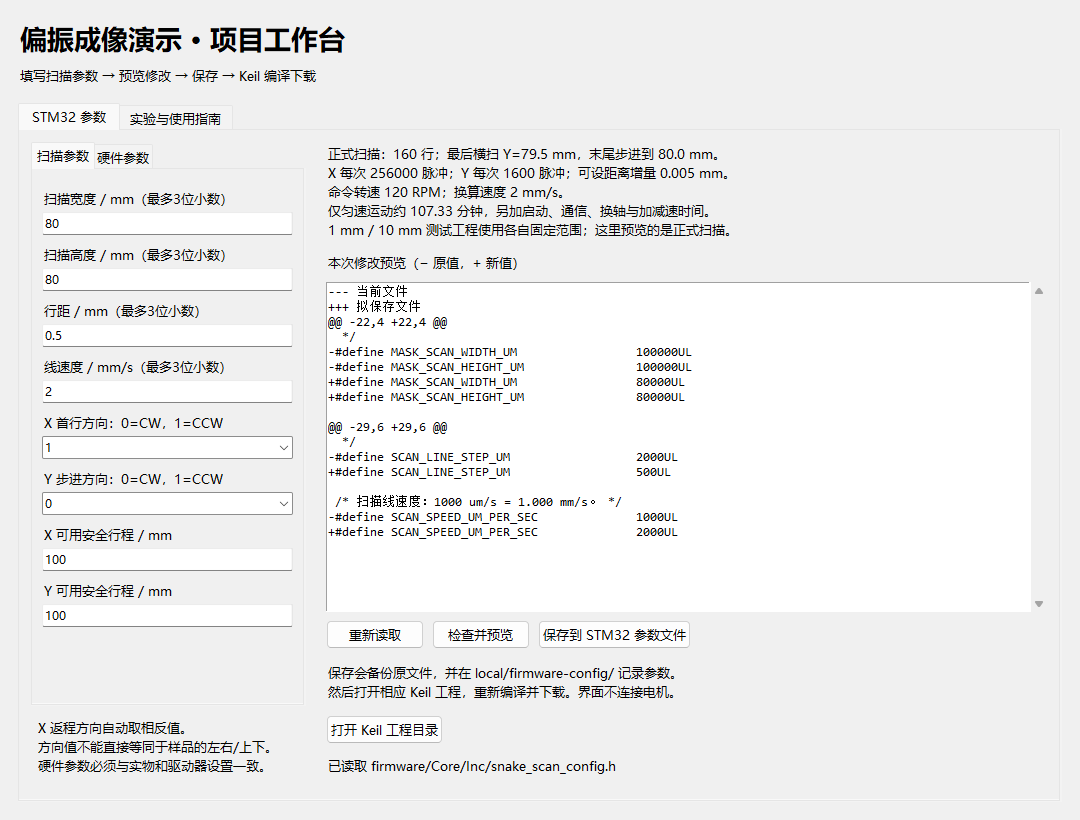
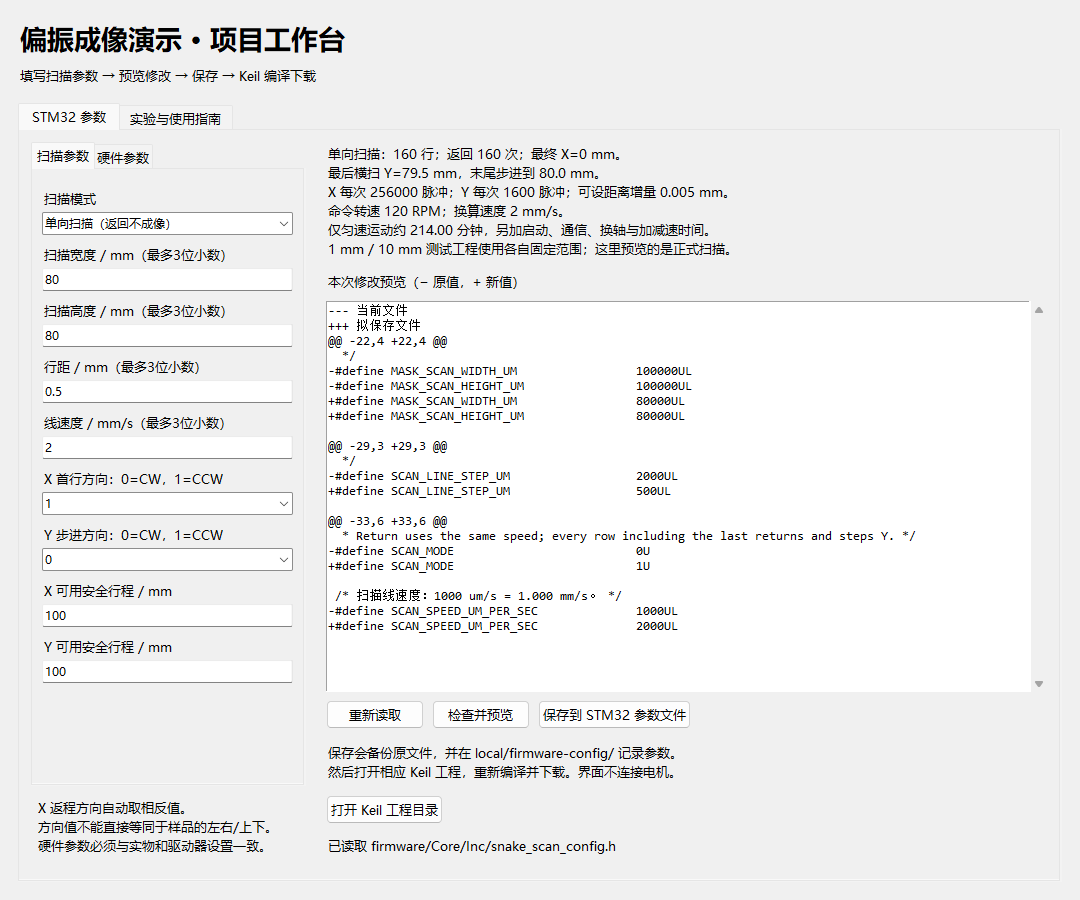
Add selectable unidirectional scanning with return passes

diff --git a/tools/control_panel.py b/tools/control_panel.py
@@ -11,6 +11,7 @@ from config_model import FIELDS, MM_DISPLAY_KEYS, parse_form, read_values, rende
 
 ROOT = Path(__file__).resolve().parents[1]
 HEADER = ROOT / 'firmware/Core/Inc/snake_scan_config.h'
+MODE_LABELS = ('双向蛇形（往返均成像）', '单向扫描（返回不成像）')
 
 
 def open_path(relative):
@@ -56,7 +57,9 @@ class ControlPanel(ttk.Frame):
                 ttk.Label(frame, text=field.label).grid(row=row*2, column=0, sticky='w', pady=(8, 2))
                 variable = tk.StringVar()
                 self.variables[field.key] = variable
-                if field.maximum == 1:
+                if field.key == 'SCAN_MODE':
+                    entry = ttk.Combobox(frame, textvariable=variable, values=MODE_LABELS, state='readonly', width=32)
+                elif field.maximum == 1:
                     entry = ttk.Combobox(frame, textvariable=variable, values=['0', '1'], state='readonly', width=32)
                 else:
                     entry = ttk.Entry(frame, textvariable=variable, width=35)
@@ -92,6 +95,10 @@ class ControlPanel(ttk.Frame):
 
     @staticmethod
     def form_value(key, value):
+        if key == 'SCAN_MODE':
+            if value not in (0, 1):
+                raise ValueError('SCAN_MODE 必须为0或1。')
+            return MODE_LABELS[value]
         return str(Decimal(value) / 1000) if key in MM_DISPLAY_KEYS else str(value)
 
     def reload(self):
@@ -107,7 +114,9 @@ class ControlPanel(ttk.Frame):
 
     def check(self):
         try:
-            values = parse_form({key: variable.get() for key, variable in self.variables.items()})
+            form = {key: variable.get() for key, variable in self.variables.items()}
+            form['SCAN_MODE'] = MODE_LABELS.index(form['SCAN_MODE'])
+            values = parse_form(form)
             new = render(self.original, values)
             info = validate(values)
             diff = ''.join(difflib.unified_diff(self.original.decode('utf-8-sig').splitlines(True),
@@ -116,7 +125,8 @@ class ControlPanel(ttk.Frame):
             self.preview.delete('1.0', 'end')
             self.preview.insert('1.0', diff or '参数与当前文件相同。')
             self.preview.config(state='disabled')
-            self.summary.set(f"正式扫描：{info['rows']} 行；最后横扫 Y={info['last_line_y_mm']} mm，末尾步进到 {info['final_y_mm']} mm。\n"
+            self.summary.set(f"{info['mode_name']}：{info['rows']} 行；返回 {info['return_passes']} 次；最终 X={info['final_x_mm']:g} mm。\n"
+                             f"最后横扫 Y={info['last_line_y_mm']} mm，末尾步进到 {info['final_y_mm']} mm。\n"
                              f"X 每次 {info['x_pulses']} 脉冲；Y 每次 {info['y_pulses']} 脉冲；可设距离增量 {info['minimum_step_mm']:g} mm。\n"
                              f"命令转速 {info['rpm']} RPM；换算速度 {info['actual_mm_s']:.4g} mm/s。\n"
                              f"仅匀速运动约 {info['ideal_motion_seconds']/60:.2f} 分钟，另加启动、通信、换轴与加减速时间。\n"
@@ -160,8 +170,8 @@ class ControlPanel(ttk.Frame):
 def main():
     root = tk.Tk()
     root.title('偏振成像演示 · 参数与实验')
-    root.geometry('1080x820')
-    root.minsize(980, 740)
+    root.geometry('1080x900')
+    root.minsize(980, 880)
     style = ttk.Style(root)
     if 'vista' in style.theme_names():
         style.theme_use('vista')

diff --git a/scripts/scan_path_stub.c b/scripts/scan_path_stub.c
@@ -1,0 +1,51 @@
+/* Test the production scan loop with simulated moves, including failure stops. */
+#include <stdint.h>
+#include <stdbool.h>
+#include <assert.h>
+#include <setjmp.h>
+#include <stdio.h>
+/* CONFIG */
+enum { SCAN_STATE_MOVING_X, SCAN_STATE_MOVING_Y, SCAN_STATE_RETURNING_X, SCAN_STATE_FINISHED };
+static unsigned scan_state, scan_line, scan_x_offset_um, scan_y_offset_um;
+static unsigned count, fail_at, error_code, led;
+static jmp_buf failure;
+static void HAL_Delay(uint32_t ms) { (void)ms; }
+static void Scan_LedOn(void) { led=1; }
+static void Scan_Fail(uint8_t code) { error_code=code; longjmp(failure,1); }
+static bool Scan_MoveRelative(uint8_t axis,uint8_t direction,uint32_t distance,uint32_t timeout) {
+    unsigned row=count/(SCAN_MODE ? 3 : 2);
+    unsigned leg=count%(SCAN_MODE ? 3 : 2);
+    (void)timeout;
+    assert(scan_line==row+1);
+    if (leg==0) {
+        assert(axis==X_AXIS_ADDR && distance==ACTIVE_SCAN_WIDTH_UM);
+        assert(direction==((SCAN_MODE || row%2==0)?X_FIRST_PASS_DIRECTION:X_ALTERNATE_PASS_DIRECTION));
+        assert(scan_state==SCAN_STATE_MOVING_X);
+    } else if (SCAN_MODE && leg==1) {
+        assert(axis==X_AXIS_ADDR && direction==X_ALTERNATE_PASS_DIRECTION);
+        assert(distance==ACTIVE_SCAN_WIDTH_UM && scan_state==SCAN_STATE_RETURNING_X);
+    } else {
+        assert(axis==Y_AXIS_ADDR && direction==Y_STEP_DIRECTION);
+        assert(distance==ACTIVE_LINE_STEP_UM && scan_state==SCAN_STATE_MOVING_Y);
+    }
+    ++count;
+    return count!=fail_at;
+}
+/* LOOP */
+int main(void) {
+    SnakeScan();
+    assert(count==ACTIVE_HORIZONTAL_PASS_COUNT*(SCAN_MODE?3:2));
+    assert(scan_y_offset_um==ACTIVE_SCAN_HEIGHT_UM);
+    assert(scan_x_offset_um==((SCAN_MODE || ACTIVE_HORIZONTAL_PASS_COUNT%2==0)?0:ACTIVE_SCAN_WIDTH_UM));
+    assert(scan_state==SCAN_STATE_FINISHED && led);
+    unsigned total=count;
+    for (unsigned stop=1;stop<=total;++stop) {
+        count=led=scan_line=scan_x_offset_um=scan_y_offset_um=error_code=0;
+        fail_at=stop;
+        if (setjmp(failure)==0) { SnakeScan(); assert(0); }
+        assert(count==stop && !led);
+        unsigned leg=(stop-1)%(SCAN_MODE?3:2);
+        assert(error_code==(leg==0?3:(SCAN_MODE && leg==1?8:4)));
+    }
+    puts("PASS: production scan loop directions, distances, endpoints and stop on every failed leg.");
+}

diff --git a/firmware/Core/Src/main.c b/firmware/Core/Src/main.c
@@ -64,7 +64,8 @@ typedef enum
   SCAN_STATE_MOVING_X,
   SCAN_STATE_MOVING_Y,
   SCAN_STATE_FINISHED,
-  SCAN_STATE_ERROR
+  SCAN_STATE_ERROR,
+  SCAN_STATE_RETURNING_X
 } ScanState_t;
 
 /* Runtime state variables for scan progress and fault diagnosis. */
@@ -368,19 +369,32 @@ static void SnakeScan(void)
   for (pass = 0U; pass < ACTIVE_HORIZONTAL_PASS_COUNT; ++pass)
   {
     scan_line = pass + 1U;
-    x_direction = ((pass & 1U) == 0U) ? X_FIRST_PASS_DIRECTION
+    x_direction = ((SCAN_MODE == 1U) || ((pass & 1U) == 0U)) ? X_FIRST_PASS_DIRECTION
                                       : X_ALTERNATE_PASS_DIRECTION;
 
-    /* Alternate between the configured first-pass and return directions. */
+    /* Only this X leg is an imaging pass in unidirectional mode. */
     scan_state = SCAN_STATE_MOVING_X;
     if (!Scan_MoveRelative(X_AXIS_ADDR, x_direction,
                            ACTIVE_SCAN_WIDTH_UM, X_MOVE_TIMEOUT_MS))
     {
       Scan_Fail(3U);
     }
-    scan_x_offset_um = ((pass & 1U) == 0U) ?
+    scan_x_offset_um = ((SCAN_MODE == 1U) || ((pass & 1U) == 0U)) ?
                        ACTIVE_SCAN_WIDTH_UM : 0U;
     HAL_Delay(AXIS_SWITCH_DELAY_MS);
+
+    if (SCAN_MODE == 1U)
+    {
+      /* Nominal return, not mechanical homing. Do not image this leg. */
+      scan_state = SCAN_STATE_RETURNING_X;
+      if (!Scan_MoveRelative(X_AXIS_ADDR, X_ALTERNATE_PASS_DIRECTION,
+                             ACTIVE_SCAN_WIDTH_UM, X_MOVE_TIMEOUT_MS))
+      {
+        Scan_Fail(8U);
+      }
+      scan_x_offset_um = 0U;
+      HAL_Delay(AXIS_SWITCH_DELAY_MS);
+    }
 
     /* Every completed horizontal line is followed by one upward line step. */
     scan_state = SCAN_STATE_MOVING_Y;

diff --git a/tools/config_model.py b/tools/config_model.py
@@ -21,6 +21,7 @@ class Field:
 
 
 FIELDS = [
+    Field('SCAN_MODE', '扫描模式', 0, 1),
     Field('MASK_SCAN_WIDTH_UM', '扫描宽度 / mm（最多3位小数）', 1, 4294000),
     Field('MASK_SCAN_HEIGHT_UM', '扫描高度 / mm（最多3位小数）', 1, 4294000),
     Field('SCAN_LINE_STEP_UM', '行距 / mm（最多3位小数）', 1, 4294000),
@@ -104,9 +105,13 @@ def validate(v):
     actual_speed_um = rpm * lead / 60
     if (max(w, 10000) * 60000 + rpm*lead-1) // (rpm*lead) + 20000 > 0xffffffff or (max(step, 2000) * 60000 + rpm*lead-1) // (rpm*lead) + 4000 > 0xffffffff:
         raise ValueError('运动超时超出32位计时器范围。')
-    return dict(minimum_step_mm=grid_um/1000, x_pulses=w*ppr//lead, y_pulses=step*ppr//lead, rows=h // step, rpm=rpm, actual_mm_s=rpm * lead / 60000,
+    mode = v['SCAN_MODE']
+    return dict(scan_mode=mode, mode_name='单向扫描' if mode else '双向蛇形',
+                return_passes=h//step if mode else 0,
+                final_x_mm=0 if mode or (h//step)%2==0 else w/1000,
+                minimum_step_mm=grid_um/1000, x_pulses=w*ppr//lead, y_pulses=step*ppr//lead, rows=h // step, rpm=rpm, actual_mm_s=rpm * lead / 60000,
                 last_line_y_mm=(h-step)/1000, final_y_mm=h/1000,
-                ideal_motion_seconds=(h // step * w + h) / actual_speed_um)
+                ideal_motion_seconds=(h // step * w * (2 if mode else 1) + h) / actual_speed_um)
 
 
 def render(source, values):

diff --git a/scripts/audit_motion.py b/scripts/audit_motion.py
@@ -58,6 +58,21 @@ def main():
             result=subprocess.run(['gcc','-std=c99','-fsyntax-only',str(cfile)],capture_output=True)
             assert result.returncode!=0,(key,value)
         print('PASS: all four stages accept 0.005 mm; subpulse, travel, row division and zero RPM are compile-time errors.')
+        path_stub=(ROOT/'scripts/scan_path_stub.c').read_text()
+        for mode in (0,1):
+            for rows in (1,2,3):
+                for direction in (0,1):
+                    variant=config
+                    for key,value in dict(SCAN_MODE=mode,MASK_SCAN_WIDTH_UM=500,
+                                          MASK_SCAN_HEIGHT_UM=rows*100,SCAN_LINE_STEP_UM=100,
+                                          X_FIRST_PASS_DIRECTION=direction,X_ALTERNATE_PASS_DIRECTION=1-direction,
+                                          Y_STEP_DIRECTION=direction).items():
+                        variant=re.sub(r'(#define '+key+r'\s+)\d+U(L?)',lambda m:m[1]+str(value)+'U'+m[2],variant)
+                    code=path_stub.replace('/* CONFIG */','#define SCAN_STAGE 3U\n'+variant)
+                    code=code.replace('/* LOOP */',function(source,'SnakeScan'))
+                    cfile.write_text(code,encoding='utf-8')
+                    subprocess.run(['gcc','-std=c99','-Wall','-Wextra',str(cfile),'-o',str(binary)],check=True)
+                    subprocess.run([str(binary)],check=True)
 
 
 if __name__ == '__main__':

diff --git a/tools/tests/test_config_model.py b/tools/tests/test_config_model.py
@@ -77,6 +77,18 @@ class ConfigurationTests(unittest.TestCase):
                 self.assertEqual(info['minimum_step_mm'],0.005)
                 self.assertEqual(read_values(render(self.original,v)),v)
 
+    def test_modes_time_endpoints_and_roundtrip(self):
+        for mode,end_x in [(0,2),(1,0)]:
+            values=parse_form(dict(self.form,SCAN_MODE=str(mode),MASK_SCAN_WIDTH_UM='2',MASK_SCAN_HEIGHT_UM='2',SCAN_LINE_STEP_UM='2'))
+            # One row: 2 mm X + optional 2 mm return + 2 mm Y at 1 mm/s.
+            info=validate(values)
+            self.assertEqual(info['ideal_motion_seconds'],4 if mode==0 else 6)
+            self.assertEqual(info['final_x_mm'],end_x)
+            self.assertEqual(info['return_passes'],mode)
+            self.assertEqual(read_values(render(self.original,values)),values)
+        with self.assertRaises(ValueError):parse_form(dict(self.form,SCAN_MODE='2'))
+        with self.assertRaises(ValueError):read_values(self.original.replace(b'#define SCAN_MODE',b'// removed SCAN_MODE'))
+
     def test_subpulse_precision_division_and_more_than_65535_rows(self):
         for mm in ['0.001','0.003','0.0003125','0.015']:
             with self.subTest(mm=mm),self.assertRaises(ValueError):

diff --git a/firmware/Core/Inc/snake_scan_config.h b/firmware/Core/Inc/snake_scan_config.h
@@ -29,6 +29,10 @@
  */
 #define SCAN_LINE_STEP_UM                  2000UL
 
+/* 0 = bidirectional serpentine; 1 = same-direction scan, return, then Y step.
+ * Return uses the same speed; every row including the last returns and steps Y. */
+#define SCAN_MODE                          0U
+
 /* 扫描线速度：1000 um/s = 1.000 mm/s。 */
 #define SCAN_SPEED_UM_PER_SEC              1000UL
 
@@ -160,6 +164,10 @@
 
 #if (MASK_SCAN_WIDTH_UM == 0UL)
 #error "MASK_SCAN_WIDTH_UM must be greater than zero"
+#endif
+
+#if (SCAN_MODE > 1U)
+#error "SCAN_MODE must be 0 (bidirectional) or 1 (unidirectional)"
 #endif
 
 #if (MASK_SCAN_HEIGHT_UM == 0UL)

diff --git a/docs/hardware/scan-modes.md b/docs/hardware/scan-modes.md
@@ -1,0 +1,42 @@
+# 单向扫描与双向蛇形
+
+双击根目录START.cmd，在“扫描模式”选择，检查预览并保存，再在Keil重新编译、下载。默认仍为双向蛇形。头文件中的 `SCAN_MODE=0` 为双向、`SCAN_MODE=1` 为单向；其他值会被拒绝。
+
+## 路径
+
+双向：X首方向横扫 → Y换行 → X反方向横扫 → Y换行。两个方向的横扫均用于成像。
+
+单向：X首方向横扫 → X反方向返回 → Y换行 → 重复。仅首方向横扫用于成像；返回段原始电流应保留，但重构时排除。X首方向决定所有有效行的方向，Y方向决定换行方向，方向0/1仍不等于装配后的左右/上下。
+
+例如宽2 mm、高1 mm、行距0.5 mm，以首方向为X正方向：
+
+```text
+双向：(0,0) → (2,0) → (2,0.5) → (0,0.5) → (0,1)
+单向：(0,0) → (2,0) → (0,0) → (0,0.5)
+           → (2,0.5) → (0,0.5) → (0,1)
+```
+
+两种模式均为高度/行距条有效扫描线，最后一条后仍换行一次，最终Y等于设置高度。单向最后一行也返回，最终名义X=0；双向偶数行X=0，奇数行X=宽度。最终Y处没有额外横扫。
+
+返回使用同一速度、加速度、到位检查和换轴等待。返回失败立即进入现有停止流程，红灯错误码8；有效X扫描失败为3，Y换行失败为4。通讯检查工程不运动，1 mm和10 mm测试工程采用固定范围，但同样遵循所选扫描模式。
+
+## 时间与实际位置
+
+设N=高度/行距，宽度W、高度H、换算后的实际命令线速度v：
+
+- 双向纯运动时间：(N×W+H)/v。
+- 单向纯运动时间：(2×N×W+H)/v，包含最后一行返回。
+
+单位统一使用mm、mm/s，结果为秒。单向80×80 mm、行距2 mm、2 mm/s，纯运动约54分钟；双向约27.33分钟。另加启动、状态查询、每次移动后的300 ms等待和加减速。界面估算不替代测量时间记录。
+
+当前返回是发送等距离、反方向的相对运动指令，名义坐标归零不证明机械位置精确复原；没有机械回零、预行程、绝对坐标闭环或回差标定。单向可统一有效扫描方向，不能保证消除回差或修复偶发快速横移。上一轮规划的预行程、目标坐标改造和事件同步属于后续独立改动；本版不自动越过用户设置范围。
+
+## 采集与重构
+
+模式切换只改变STM32路径，不会切换源表测量，也不会自动修改Python重构配置。现有实测案例仍使用原来的双向路径，不修改历史结果。
+
+单向数据不要直接套用估计蛇形分行或常规相邻行反转：应使用 `time_windows` 或 `index_windows`，为每条有效横扫指定独立的start/stop窗口，并为所有行填写相同的 `direction`（forward或reverse，取决于希望显示的X轴方向）。排除返回、Y换行和等待区间。格式见[重构配置](../reconstruction/configuration.md)。尚未实现电机事件时间记录；没有准确窗口时不能宣称已精确定位每行。
+
+首次烧录按通信检查、小范围测试、正式扫描逐步核对方向、返回、换行及终点。通过主机模拟和软件测试不等于Keil目标编译、烧录或实机验证。
+
+旧版头文件没有SCAN_MODE，新界面会拒绝读取；请保留完整旧版备份，在新版界面重新输入原毫米参数，不要只拿旧头文件覆盖新版。

diff --git a/docs/hardware/configuration-ui.md b/docs/hardware/configuration-ui.md
@@ -1,12 +1,14 @@
 # STM32 参数配置界面
 
+在“扫描模式”下拉框选择“双向蛇形”或“单向扫描”，预览显示模式、返回次数、最终X位置和相应运动时间。保存后重新编译下载。[完整路径与重构要求](scan-modes.md)。旧版没有SCAN_MODE的头文件需要在新版重新输入参数，不能直接覆盖。
+
 双击根目录 `START.cmd`，或从项目根目录运行 `python tools/control_panel.py`。需要Python 3.10或更新版本及Tkinter。界面只用标准库；安装Python时保留Tcl/Tk组件，不需要先安装重构依赖。
 
 Windows启动器会寻找已有Python；找不到时弹出文件选择框，请选择已安装的 `python.exe`（例如Anaconda安装目录里的文件）。选择会保存在本机 `local/python-path.txt`，不会上传到仓库，不要求别人使用相同安装路径。未安装Python时请先安装。
 
 ![参数工作台预览](../assets/configuration-ui.png)
 
-上图演示填写80×80 mm、行距0.5 mm、2 mm/s后的修改预览，尚未保存。界面每次实际启动都读取头文件中的当前值。
+上图演示填写单向扫描、80×80 mm、行距0.5 mm、2 mm/s后的修改预览，尚未保存。界面每次实际启动都读取头文件中的当前值。
 
 ## 操作
 

diff --git a/README.en.md b/README.en.md
@@ -1,5 +1,7 @@
 # Polarization Imaging Demo
 
+Choose bidirectional serpentine or unidirectional scanning in START.cmd. Unidirectional mode scans, returns at the same speed, then steps Y after every row, including the last. Exclude returns from reconstruction using explicit row windows; the mode does not control acquisition or add synchronized event logs. [Mode guide](docs/hardware/scan-modes.md)
+
 [中文](README.md) | **English**
 
 An STM32 drives an XY stage in a serpentine pattern, a source meter records current, and Python reconstructs a 2D image. The project includes firmware, a graphical parameter editor, two measured examples, and offline viewers linking each pixel to its raw samples.

diff --git a/docs/project/changelog.md b/docs/project/changelog.md
@@ -1,5 +1,9 @@
 # 更新记录
 
+## v3.2.0 · 2026-09-22
+
+新增单向/双向模式切换，默认双向保持原路径。单向每行有效横扫后同速返回再Y换行，包括最后一行；返回失败为错误码8。界面显示模式、返回次数、最终X及运动时间。增加真实C扫描循环主机测试（方向、行数、终点及每段失败停止），补充单向数据重构要求。未实现预行程、机械回零或采集事件同步，未进行实机验证。
+
 ## v3.1.0 · 2026-09-18
 
 - 参数界面支持最多3位小数毫米，距离宏改为整数微米；默认硬件下0.005 mm为可设增量。预览显示X/Y脉冲数与距离增量，不静默舍入。

diff --git a/README.md b/README.md
@@ -1,5 +1,7 @@
 # 偏振成像演示
 
+支持双向蛇形与单向扫描，可在START.cmd工作台切换。单向每行横扫后返回，再Y换行（最后一行也一样）；返回段不用于成像。模式不会自动控制源表或生成同步日志。[模式、时间与重构说明](docs/hardware/scan-modes.md)
+
 **中文** | [English](README.en.md)
 
 STM32 控制双轴平移台做蛇形扫描，源表记录电流，Python 将采样重构为二维图像。项目包含固件、图形化参数编辑器、两个实测案例和可逐像素反查原始数据的离线查看器。
